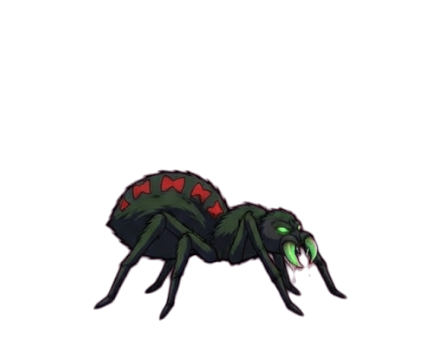
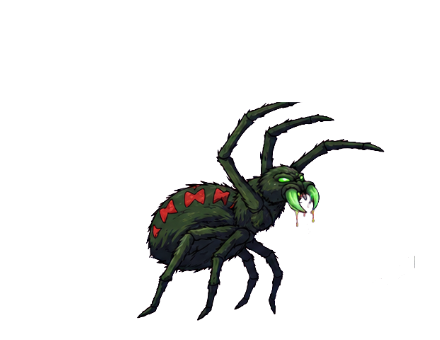
만독 거미 걷기·공격 새 그림 (ChatGPT), 자르기 도구: 4칸x2줄·옆 칸 조각 지우기

Changed region(s): [[0.2068, 0.2941, 0.8864, 0.9412]]

diff --git a/tools/gemini/cutmob.template.js b/tools/gemini/cutmob.template.js
@@ -24,7 +24,11 @@ async () => {
     x.putImageData(d, 0, 0);
     return c;
   }
-  function cells(c, split, rowsN) {
+  function cells(c, split, rowsN, gridRow) {
+    if (gridRow !== undefined) { // 4칸 x 2줄 그림: gridRow 줄의 4칸
+      const W = c.width, hh = Math.floor(c.height / 2), cw = Math.floor(W / 4);
+      return [0, 1, 2, 3].map(k => measure(c, k * cw, gridRow * hh, cw, hh));
+    }
     const W = c.width, H = c.height, hh = Math.floor(H / (rowsN || 2)), res = [];
     for (let q = 0; q < (rowsN || 4); q++) {
       const row = rowsN ? q : Math.floor(q / 2), sx = split ? split[row] : Math.floor(W / 2);
@@ -46,10 +50,39 @@ async () => {
     }
     return res;
   }
+  // 칸 안에서 큰 덩어리만 남기고 옆 칸에서 넘어온 작은 조각은 지움
+  function keepMain(c, ox, oy, cw, hh) {
+    const x = c.getContext("2d"), d = x.getImageData(ox, oy, cw, hh), p = d.data, N = cw * hh;
+    const lab = new Int32Array(N).fill(-1), sizes = [];
+    for (let s = 0; s < N; s++) {
+      if (lab[s] >= 0 || p[s * 4 + 3] <= 40) continue;
+      const id = sizes.length; let n = 0; const st = [s]; lab[s] = id;
+      while (st.length) { const q = st.pop(); n++; const qx = q % cw, qy = (q / cw) | 0;
+        for (const [dx, dy] of [[1,0],[-1,0],[0,1],[0,-1]]) { const nx = qx + dx, ny = qy + dy; if (nx < 0 || ny < 0 || nx >= cw || ny >= hh) continue; const r = ny * cw + nx; if (lab[r] < 0 && p[r * 4 + 3] > 40) { lab[r] = id; st.push(r); } } }
+      sizes.push(n);
+    }
+    if (!sizes.length) return;
+    const big = Math.max(...sizes);
+    for (let s = 0; s < N; s++) { const l = lab[s]; if (l >= 0 && sizes[l] < big * 0.03) p[s * 4 + 3] = 0; else if (l < 0 && p[s * 4 + 3] > 0) { /* 흐린 가장자리는 둠 */ } }
+    x.putImageData(d, ox, oy);
+  }
+  function measure(c, ox, oy, cw, hh) {
+    keepMain(c, ox, oy, cw, hh);
+    const qd = c.getContext("2d").getImageData(ox, oy, cw, hh).data;
+    let minY = hh, maxY = -1;
+    for (let yy = 0; yy < hh; yy++) for (let xx = 0; xx < cw; xx++) if (qd[(yy * cw + xx) * 4 + 3] > 40) { if (yy < minY) minY = yy; if (yy > maxY) maxY = yy; }
+    const figH = maxY - minY; let sxs = 0, n = 0;
+    for (let yy = Math.round(maxY - figH * 0.55); yy < Math.round(maxY - figH * 0.45); yy++) {
+      let best = [0, 0], cur = -1;
+      for (let xx = 0; xx <= cw; xx++) { const on = xx < cw && qd[(yy * cw + xx) * 4 + 3] > 40; if (on && cur < 0) cur = xx; if (!on && cur >= 0) { if (xx - cur > best[1] - best[0]) best = [cur, xx]; cur = -1; } }
+      if (best[1] > best[0]) { sxs += (best[0] + best[1]) / 2; n++; }
+    }
+    return { ox, oy, cw, hh, minY, maxY, figH, cx: n ? sxs / n : cw / 2 };
+  }
   const out = {};
   for (const job of JOBS) {
     const walk = keyed(await load('/assets_new/' + job.walk));
-    let wc = cells(walk, job.splitWalk, job.walkRows);
+    let wc = cells(walk, job.splitWalk, job.walkRows, job.grid42 ? 0 : undefined);
     if (job.walkOrder) wc = job.walkOrder.map(i => wc[i]);
     const hs = wc.map(c => c.figH).sort((a, b) => a - b);
     const scale = (job.targetH || TARGET_H) / ((hs[1] + hs[2]) / 2);
@@ -58,7 +91,7 @@ async () => {
     if (job.attack) {
       const atk = keyed(await load('/assets_new/' + job.attack), job.killCross);
       for (const r of (job.eraseAtk || [])) atk.getContext('2d').clearRect(r[0], r[1], r[2], r[3]);
-      let ac = cells(atk, job.splitAtk, job.atkRows);
+      let ac = cells(atk, job.splitAtk, job.atkRows, job.grid42 ? 1 : undefined);
       if (job.atkOrder) ac = job.atkOrder.map(i => ac[i]);
       // 공격 시트는 크기가 다르게 그려질 때가 있어서, '준비 자세' 칸(기본 4번째)의 키를 걷기 키에 맞춤
       const ref = ac[job.atkRef === undefined ? 3 : job.atkRef];
